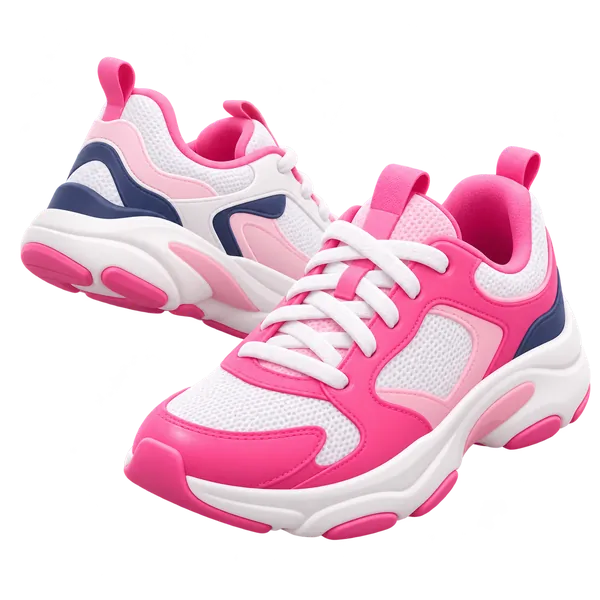
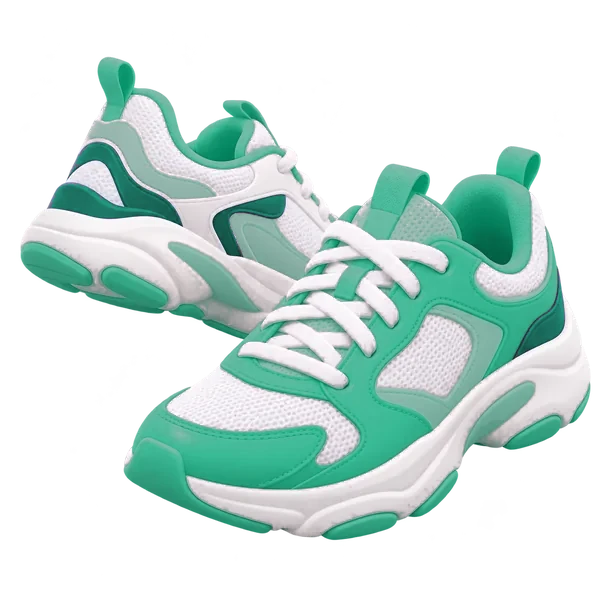
feat(onboarding): add dragging functionality to BeforeAfter component and adjust Body scroll behavior

Changed region(s): [[0.03, 0.09, 0.96, 0.9], [0.96, 0.63, 0.99, 0.69], [0.3, 0.63, 0.33, 0.66]]

diff --git a/src/app/program-day.tsx b/src/app/program-day.tsx
@@ -211,10 +211,18 @@ function DayPlan({ session }: { session: Session }) {
                 </View>
                 <Text style={s.levelText}>{meta.level}</Text>
               </View>
+              {meta.program && meta.day !== undefined && (
+                <View style={s.journey}>
+                  <View style={s.journeyTrack}>
+                    <View style={[s.journeyFill, { width: `${Math.min(100, (done / 30) * 100)}%` }]} />
+                  </View>
+                  <Text style={s.journeyText}>{done}/30 days</Text>
+                </View>
+              )}
               {completed && (
                 <View style={s.doneBadge}>
                   <Ionicons name="checkmark-circle" size={14} color={C.white} />
-                  <Text style={s.doneBadgeText}>Completed</Text>
+                  <Text style={s.doneBadgeText}>Done · nice work</Text>
                 </View>
               )}
             </View>
@@ -230,23 +238,21 @@ function DayPlan({ session }: { session: Session }) {
           ) : (
             <>
               <Animated.View entering={enter(0)}>
-                <Card style={s.stats}>
-                  <Stat icon="list" color={C.primaryDark} bg={C.primarySoft} value={`${stats.exercises}`} label="Exercises" />
-                  <View style={s.statDiv} />
-                  <Stat icon="time" color={C.water} bg={C.waterSoft} value={`${stats.minutes}`} unit=" min" label="Time" />
-                  <View style={s.statDiv} />
-                  <Stat icon="flame" color={C.accent} bg={C.accentSoft} value={`${stats.kcal}`} unit=" kcal" label="Calories (≈)" />
-                </Card>
+                <View style={s.stats}>
+                  <Stat icon="body" color={C.primaryDark} bg={C.primarySoft} value={`${stats.exercises}`} label="Moves" />
+                  <Stat icon="time" color={C.water} bg={C.waterSoft} value={`${stats.minutes}`} unit=" min" label="Duration" />
+                  <Stat icon="flame" color={C.accent} bg={C.accentSoft} value={`~${stats.kcal}`} unit=" kcal" label="Est. burn" />
+                </View>
               </Animated.View>
 
               <Animated.View entering={enter(1)}>
                 <Card style={s.settingsCard}>
-                  <ListRow icon="options" iconBg={C.accentSoft} iconColor={C.accent} title="Workout settings" subtitle="Music, coach, timer & more" onPress={() => setSettings(true)} />
+                  <ListRow icon="options" iconBg={C.accentSoft} iconColor={C.accent} title="Tune your workout" subtitle="Rest time, countdown, coach & music" onPress={() => setSettings(true)} />
                 </Card>
               </Animated.View>
 
               <Animated.View entering={enter(2)} style={s.exHead}>
-                <Text style={s.exTitle}>Exercises</Text>
+                <Text style={s.exTitle}>Your routine</Text>
                 <View style={s.countPill}>
                   <Text style={s.countText}>{items.length}</Text>
                 </View>
@@ -267,8 +273,8 @@ function DayPlan({ session }: { session: Session }) {
                     <View style={{ flexDirection: 'row', gap: 12 }}>
                       <IconTile icon="create-outline" size={42} />
                       <View style={{ flex: 1 }}>
-                        <Text style={s.tipTitle}>{"Don't like some exercises?"}</Text>
-                        <Text style={s.tipText}>Tap here to customize your workout plan just the way you like it!</Text>
+                        <Text style={s.tipTitle}>Make it yours</Text>
+                        <Text style={s.tipText}>Tap the pencil to remove moves or change reps and time.</Text>
                       </View>
                     </View>
                     <Button title="Got it" small onPress={dismissTip} style={{ marginTop: 14 }} />
@@ -276,11 +282,18 @@ function DayPlan({ session }: { session: Session }) {
                 )}
               </Animated.View>
 
-              <View style={{ gap: 10 }}>
+              <View>
                 {items.map((it, i) => {
                   const ex = exerciseById(it.exerciseId);
                   return (
-                    <Animated.View key={keys[i]} entering={enter(i + 3)} exiting={rowOut} layout={rowLayout}>
+                    <Animated.View key={keys[i]} entering={enter(i + 3)} exiting={rowOut} layout={rowLayout} style={s.step}>
+                      {/* Timeline rail: numbered stop, joined to its neighbours */}
+                      <View style={s.rail}>
+                        <View style={[s.railLine, i === 0 && { top: '50%' }, i === items.length - 1 && { bottom: '50%' }]} />
+                        <View style={s.railDot}>
+                          <Text style={s.railNum}>{i + 1}</Text>
+                        </View>
+                      </View>
                       <PressableScale
                         scaleTo={0.98}
                         accessibilityRole="button"
@@ -288,7 +301,7 @@ function DayPlan({ session }: { session: Session }) {
                           tap();
                           setSheetIdx(i);
                         }}
-                        style={s.row}>
+                        style={[s.row, { flex: 1 }]}>
                         {editing && (
                           <Animated.View entering={ctlIn} exiting={ctlOut}>
                             <Pressable hitSlop={8} accessibilityLabel={`Remove ${ex.name}`} onPress={() => remove(i)} style={s.minus}>
@@ -380,7 +393,7 @@ function DayPlan({ session }: { session: Session }) {
             <GradientButton title={`Continue · ${resumePct}% done`} onPress={() => start(true)} style={{ flex: 1 }} />
           </Animated.View>
         ) : (
-          <GradientButton title={completed ? 'START AGAIN' : 'START'} icon="play" onPress={() => start(false)} />
+          <GradientButton title={completed ? 'Do it again' : `Let's go · ${stats.minutes} min`} icon="play" onPress={() => start(false)} />
         )}
       </View>
 
@@ -409,9 +422,11 @@ function DayPlan({ session }: { session: Session }) {
 
 function Stat({ icon, color, bg, value, unit, label }: { icon: IconName; color: string; bg: string; value: string; unit?: string; label: string }) {
   return (
-    <View style={{ flex: 1, alignItems: 'center', gap: 6 }}>
-      <IconTile icon={icon} color={color} bg={bg} size={34} />
-      <View style={{ alignItems: 'center' }}>
+    <View style={[s.statTile, { backgroundColor: bg }]}>
+      <View style={s.statIcon}>
+        <Ionicons name={icon} size={16} color={color} />
+      </View>
+      <View style={{ alignItems: 'flex-start' }}>
         <Text style={s.statVal} numberOfLines={1} adjustsFontSizeToFit>
           {value}
           {unit && <Text style={s.statUnit}>{unit}</Text>}
@@ -483,19 +498,24 @@ const s = StyleSheet.create({
   eyebrow: { color: C.white, fontSize: 12, fontWeight: '700', letterSpacing: 0.2 },
   heroTitle: { color: C.white, fontSize: 36, fontWeight: '800', letterSpacing: -1, marginTop: 10 },
   levelRow: { flexDirection: 'row', alignItems: 'center', gap: 8, marginTop: 6 },
+  journey: { flexDirection: 'row', alignItems: 'center', gap: 8, marginTop: 12 },
+  journeyTrack: { flex: 1, maxWidth: 150, height: 6, borderRadius: 3, backgroundColor: 'rgba(255,255,255,0.25)', overflow: 'hidden' },
+  journeyFill: { height: '100%', borderRadius: 3, backgroundColor: C.white },
+  journeyText: { color: 'rgba(255,255,255,0.9)', fontSize: 12, fontWeight: '700', fontVariant: ['tabular-nums'] },
   levelText: { color: C.white, fontSize: 14, fontWeight: '600' },
   doneBadge: { flexDirection: 'row', alignItems: 'center', gap: 4, alignSelf: 'flex-start', marginTop: 10, backgroundColor: 'rgba(255,255,255,0.22)', paddingHorizontal: 10, paddingVertical: 4, borderRadius: R.pill },
   doneBadgeText: { color: C.white, fontSize: 12, fontWeight: '700' },
   heroDisc: { position: 'absolute', right: 0, top: 4, width: 104, height: 104, borderRadius: 52, backgroundColor: 'rgba(255,255,255,0.16)', borderWidth: 1, borderColor: 'rgba(255,255,255,0.24)', alignItems: 'center', justifyContent: 'center' },
   body: { marginTop: -28, backgroundColor: C.bg, borderTopLeftRadius: R.xl, borderTopRightRadius: R.xl, paddingHorizontal: 16, paddingTop: 18 },
-  stats: { flexDirection: 'row', alignItems: 'center', paddingVertical: 14 },
-  statDiv: { width: StyleSheet.hairlineWidth * 2, height: 44, backgroundColor: C.borderSoft },
-  statVal: { fontSize: 19, fontWeight: '800', color: C.text, fontVariant: ['tabular-nums'], letterSpacing: -0.4 },
+  stats: { flexDirection: 'row', gap: 10 },
+  statTile: { flex: 1, padding: 12, borderRadius: R.lg, gap: 10 },
+  statIcon: { width: 30, height: 30, borderRadius: 15, backgroundColor: C.card, alignItems: 'center', justifyContent: 'center' },
+  statVal: { fontSize: 20, fontWeight: '900', color: C.text, fontVariant: ['tabular-nums'], letterSpacing: -0.5 },
   statUnit: { fontSize: 12, fontWeight: '600', color: C.textSoft, letterSpacing: 0 },
-  statLabel: { fontSize: 11, color: C.muted, fontWeight: '600', marginTop: 1 },
+  statLabel: { fontSize: 11.5, color: C.textSoft, fontWeight: '700', marginTop: 1 },
   settingsCard: { marginTop: 10, paddingVertical: 2, paddingHorizontal: 10 },
   exHead: { flexDirection: 'row', alignItems: 'center', gap: 8, marginTop: 24, marginBottom: 12, zIndex: 20 },
-  exTitle: { fontSize: 18, fontWeight: '700', color: C.text, letterSpacing: -0.3 },
+  exTitle: { fontSize: 20, fontWeight: '800', color: C.text, letterSpacing: -0.4 },
   countPill: { minWidth: 26, height: 22, paddingHorizontal: 7, borderRadius: R.pill, backgroundColor: C.primarySoft, alignItems: 'center', justifyContent: 'center' },
   countText: { fontSize: 12, fontWeight: '700', color: C.primaryDark, fontVariant: ['tabular-nums'] },
   resetText: { color: C.primary, fontWeight: '700', fontSize: 14 },
@@ -505,7 +525,12 @@ const s = StyleSheet.create({
   tipArrow: { position: 'absolute', top: -7, right: 16, width: 16, height: 16, backgroundColor: C.card, transform: [{ rotate: '45deg' }], borderRadius: 3 },
   tipTitle: { fontSize: 15, fontWeight: '700', color: C.text },
   tipText: { fontSize: 13, color: C.textSoft, lineHeight: 18, marginTop: 3 },
-  row: { flexDirection: 'row', alignItems: 'center', gap: 12, padding: 10, paddingRight: 14, backgroundColor: C.card, borderRadius: R.md, borderWidth: StyleSheet.hairlineWidth, borderColor: C.borderSoft, ...shadowSm },
+  step: { flexDirection: 'row', alignItems: 'stretch', gap: 10 },
+  rail: { width: 26, alignItems: 'center', justifyContent: 'center' },
+  railLine: { position: 'absolute', top: 0, bottom: 0, width: 2, borderRadius: 1, backgroundColor: C.primaryTint },
+  railDot: { width: 26, height: 26, borderRadius: 13, backgroundColor: C.primaryDark, alignItems: 'center', justifyContent: 'center', borderWidth: 3, borderColor: C.bg },
+  railNum: { fontSize: 11, fontWeight: '900', color: C.white, fontVariant: ['tabular-nums'] },
+  row: { flexDirection: 'row', alignItems: 'center', gap: 12, padding: 10, paddingRight: 14, marginVertical: 5, backgroundColor: C.card, borderRadius: R.lg, borderWidth: StyleSheet.hairlineWidth, borderColor: C.borderSoft, ...shadowSm },
   rowName: { fontSize: 15, fontWeight: '700', color: C.text, letterSpacing: -0.2 },
   amount: { flexDirection: 'row', alignItems: 'center', gap: 4, alignSelf: 'flex-start', marginTop: 6, backgroundColor: C.primarySoft, paddingHorizontal: 8, paddingVertical: 3, borderRadius: R.pill },
   amountText: { fontSize: 12, fontWeight: '700', color: C.primaryDark, fontVariant: ['tabular-nums'] },

diff --git a/src/components/program/ExerciseArt.tsx b/src/components/program/ExerciseArt.tsx
@@ -6,14 +6,13 @@ import Animated, { cancelAnimation, Easing, useAnimatedStyle, useReducedMotion, 
 
 import { Glyph } from '@/components/Glyph';
 import { EXERCISE_ART, EXERCISE_ART_B } from '@/components/glyphs';
-import { C } from '@/theme';
 
 const ART: [string, string] = ['#F6FBF8', '#E1F2EA'];
 /** 2-frame rep loop: hold each pose, then a quick cross-fade — reads like a GIF. */
 const HOLD = 420;
 const SWAP = 160;
 
-/** Illustration tile: the exercise's 3D figure (or its emoji glyph) standing on a soft mint mat, optionally with a looping "rep" motion
+/** Illustration tile: the exercise's 3D figure (or its emoji glyph), optionally with a looping "rep" motion
  *  (2-frame pose swap when a second keyframe exists, gentle breathing for static holds). */
 export function ExerciseArt({ id, emoji, size = 64, width, height, animated = false, radius, style }: { id?: string; emoji: string; size?: number; width?: DimensionValue; height?: number; animated?: boolean; radius?: number; style?: ViewStyle }) {
   const h = height ?? size;
@@ -46,16 +45,10 @@ export function ExerciseArt({ id, emoji, size = 64, width, height, animated = fa
     return { opacity: 1, transform: [{ translateY: -lift * v }, { scale: 1 + 0.07 * v }, { rotate: `${-3 + 6 * v}deg` }] };
   });
   const figureB = useAnimatedStyle(() => ({ opacity: loop ? t.get() : 0 }));
-  const shade = useAnimatedStyle(() => {
-    const v = loop && mode !== 'frames' ? t.get() : 0;
-    return { opacity: 1 - 0.45 * v, transform: [{ scaleX: 1 - 0.28 * v }] };
-  });
 
   const fs = Math.round(h * 0.48);
   const figH = Math.round(h * 0.8);
-  const matBottom = Math.round(h * 0.13);
-  const matH = Math.max(4, Math.round(h * 0.065));
-  const shadowW = Math.round(h * 0.42);
+  const figBottom = Math.round(h * 0.1);
 
   return (
     <LinearGradient colors={ART} start={{ x: 0, y: 0 }} end={{ x: 0, y: 1 }} style={[{ width: width ?? size, height: h, borderRadius: radius ?? Math.min(28, Math.round(h * 0.22)), overflow: 'hidden' }, style]}>
@@ -65,11 +58,7 @@ export function ExerciseArt({ id, emoji, size = 64, width, height, animated = fa
           <View style={[s.bubble, { width: h * 0.3, height: h * 0.3, borderRadius: h * 0.15, top: h * 0.2, left: -h * 0.1 }]} />
         </>
       )}
-      <View style={[s.mat, { bottom: matBottom, height: matH }]} />
-      <View style={[s.figure, { bottom: matBottom + matH - 2 }]}>
-        <Animated.View style={[s.shadow, { width: shadowW, height: Math.max(4, h * 0.05), borderRadius: shadowW }, shade]} />
-      </View>
-      <View style={[s.figure, { bottom: matBottom + matH * 0.6 }]}>
+      <View style={[s.figure, { bottom: figBottom }]}>
         <Animated.View style={figure}>
           {art ? <Image source={art} style={{ width: figH, height: figH }} contentFit="contain" /> : <Glyph emoji={emoji} size={Math.round(fs * 1.25)} />}
         </Animated.View>
@@ -85,8 +74,6 @@ export function ExerciseArt({ id, emoji, size = 64, width, height, animated = fa
 
 const s = StyleSheet.create({
   bubble: { position: 'absolute', backgroundColor: 'rgba(255,255,255,0.7)' },
-  mat: { position: 'absolute', left: '9%', right: '9%', borderRadius: 99, backgroundColor: C.primaryTint },
-  shadow: { backgroundColor: 'rgba(19,35,31,0.12)' },
   figure: { position: 'absolute', left: 0, right: 0, alignItems: 'center' },
   frameB: { position: 'absolute', top: 0, left: 0, right: 0, alignItems: 'center' },
 });

diff --git a/src/app/onboarding.tsx b/src/app/onboarding.tsx
@@ -161,6 +161,8 @@ export default function Onboarding() {
   // Nothing is pre-selected on a fresh start; once picked, going back shows the choice.
   const [genderPicked, setGenderPicked] = useState(() => draft?.genderPicked ?? false);
   const [login, setLogin] = useState(false);
+  // True while the before/after divider is held, so the step's ScrollView doesn't move with the finger.
+  const [dragging, setDragging] = useState(false);
   const [dir, setDir] = useState<1 | -1>(1);
   const units: WeightUnit = state.settings.units;
   const setUnits = (u: WeightUnit) => updateSettings({ units: u });
@@ -491,10 +493,10 @@ export default function Onboarding() {
       }
       case 'preview':
         return (
-          <Body>
+          <Body scroll={!dragging}>
             <QTitle text={`Meet the *new you* your ${BRAND} plan is built for`} sub="Drag the slider to compare today with your goal." />
             <Rise i={1} style={{ paddingHorizontal: GUTTER, marginTop: 20 }}>
-              <BeforeAfter before={p.bodyShape} after={p.targetShape} gender={p.gender} />
+              <BeforeAfter before={p.bodyShape} after={p.targetShape} gender={p.gender} onDrag={setDragging} />
             </Rise>
             <View style={st.statRow}>
               <Rise i={2} style={{ flex: 1 }}>
@@ -678,9 +680,9 @@ export default function Onboarding() {
 /* ---------------- Building blocks ---------------- */
 
 /** Scrollable step body with consistent top/bottom spacing. */
-function Body({ children }: { children: React.ReactNode }) {
+function Body({ children, scroll = true }: { children: React.ReactNode; scroll?: boolean }) {
   return (
-    <ScrollView contentContainerStyle={{ paddingTop: 10, paddingBottom: 28 }} showsVerticalScrollIndicator={false} keyboardShouldPersistTaps="handled">
+    <ScrollView scrollEnabled={scroll} contentContainerStyle={{ paddingTop: 10, paddingBottom: 28 }} showsVerticalScrollIndicator={false} keyboardShouldPersistTaps="handled">
       {children}
     </ScrollView>
   );

diff --git a/src/components/onboarding/BeforeAfter.tsx b/src/components/onboarding/BeforeAfter.tsx
@@ -15,7 +15,7 @@ const EDGE = 0.06; // the divider never fully hides either side
  * Before/after comparison: the goal photo fills the frame and the current one is revealed up to a
  * draggable divider. On arrival the divider sweeps once to show it can be moved, then rests in the middle.
  */
-export function BeforeAfter({ before, after, gender }: { before: number; after: number; gender: 'male' | 'female' | 'other' }) {
+export function BeforeAfter({ before, after, gender, onDrag }: { before: number; after: number; gender: 'male' | 'female' | 'other'; /** Fires true on touch down and false on release, so a parent ScrollView can stop scrolling while the divider moves. */ onDrag?: (active: boolean) => void }) {
   const [w, setW] = useState(0);
   const x = useSharedValue(0);
   const ref = useRef<View>(null);
@@ -50,6 +50,7 @@ export function BeforeAfter({ before, after, gender }: { before: number; after: 
       onResponderGrant={(e) => {
         const px = e.nativeEvent.pageX;
         touched.current = true;
+        onDrag?.(true);
         tap();
         ref.current?.measureInWindow((ox) => {
           originX.current = ox;
@@ -57,6 +58,8 @@ export function BeforeAfter({ before, after, gender }: { before: number; after: 
         });
       }}
       onResponderMove={(e) => move(e.nativeEvent.pageX)}
+      onResponderRelease={() => onDrag?.(false)}
+      onResponderTerminate={() => onDrag?.(false)}
       accessibilityLabel={`Before: ${b.range} body fat. After: ${a.range} body fat.`}>
       {w > 0 && (
         <>
